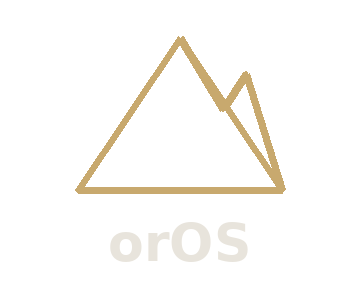
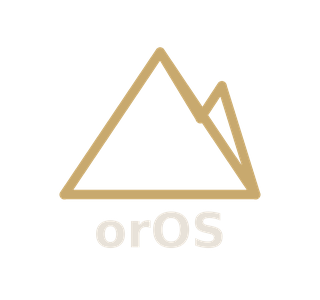
Graphical start: hidden boot menu, orOS boot screen, no login text
From the boot menu to orOS the screen showed text: GRUB's menu, kernel
and live-boot lines, and the tty1 autologin ("oros login", Debian's
message) between Plymouth quitting and cage painting.

- Boot menus hidden (GRUB timeout_style=hidden, isolinux menu hidden);
  orOS starts after 2 s, Esc (BIOS: any key) shows the menu with the
  fail-safe entries. GRUB background in Full HD.
- Kernel line: quiet splash loglevel=3 udev.log_level=3
  systemd.show_status=false vt.global_cursor_default=0.
- New Plymouth look (two-step): the orOS logo and three breathing gold
  dots on orOS's background, at start, restart and shut down; Debian's
  spinner is no longer copied in. Images from scripts/boot-art.py.
- orOS runs as oros-session.service on tty1, the way a display manager
  does (Conflicts plymouth-quit, PAM service oros-session for a logind
  session); Plymouth quits with --retain-splash and cage takes over, so
  no login prompt shows. tty2 keeps its autologin to the network screen.
- Boot test: a screenshot every 3 s in the first minute; fails when one
  shows the text console or none shows the boot screen's gold.

Claude-Session: https://claude.ai/code/session_01YL6AbizyjTpmhT5eAHAKpn

Changed region(s): [[0.1875, 0.12, 0.8125, 0.87]]

diff --git a/scripts/boot-art.py b/scripts/boot-art.py
@@ -1,0 +1,91 @@
+#!/usr/bin/env python3
+"""Draws the orOS boot screen images (Pillow). The PNGs are kept in the
+repository, so the build needs no Python; run this after changing the look.
+  python3 scripts/boot-art.py
+- assets/splash.png      GRUB (UEFI) and isolinux (BIOS) background, 640x480
+- assets/splash-hd.png   GRUB background on screens that take a larger mode
+- config/includes.chroot/usr/share/plymouth/themes/oros/watermark.png
+                         the logo on the Plymouth screen (start and shut down)
+- .../throbber-0001.png ... throbber-0036.png
+                         three gold dots that breathe one after the other
+The logo is orOS's icon.svg (koulaxizis/oros): the mountain in #c8a96e on
+#1b1a18, the same colour Chromium shows before orOS paints. No words other
+than the name: the language is not known yet while the computer starts.
+"""
+import math
+import os
+from PIL import Image, ImageDraw, ImageFont
+
+ROOT = os.path.dirname(os.path.dirname(os.path.abspath(__file__)))
+THEME = os.path.join(ROOT, "config/includes.chroot/usr/share/plymouth/themes/oros")
+BG = (0x1B, 0x1A, 0x18)
+GOLD = (0xC8, 0xA9, 0x6E)
+NAME = (0xE8, 0xE2, 0xD9)
+FONT = "/usr/share/fonts/truetype/dejavu/DejaVuSans-Bold.ttf"
+SS = 4  # supersampling for smooth edges
+
+# icon.svg: viewBox 512, stroke 20.
+OUTLINE = [(256, 104), (460, 408), (52, 408), (256, 104)]
+RIDGE = [(256, 104), (342, 246), (388, 176), (460, 408)]
+
+
+def mountain(draw, x, y, size, color):
+    """The icon's mountain in a size x size box at x, y (box of the 512 viewBox)."""
+    k = size / 512
+    w = max(1, round(20 * k))
+    for path in (OUTLINE, RIDGE):
+        pts = [(x + px * k, y + py * k) for px, py in path]
+        draw.line(pts, fill=color, width=w, joint="curve")
+        for px, py in pts:
+            r = w / 2
+            draw.ellipse([px - r, py - r, px + r, py + r], fill=color)
+
+
+def logo(width, height, size, name_px, bg=None):
+    """Mountain with the name below it, centred, at SS times the size."""
+    img = Image.new("RGBA", (width * SS, height * SS), bg + (255,) if bg else (0, 0, 0, 0))
+    d = ImageDraw.Draw(img)
+    font = ImageFont.truetype(FONT, name_px * SS)
+    # The mountain fills y 104..408 of its box; the name sits below it.
+    gap = name_px * 0.35
+    art_top, art_h = 104 / 512 * size, (408 - 104) / 512 * size
+    tb = d.textbbox((0, 0), "orOS", font=font)
+    text_h = (tb[3] - tb[1]) / SS
+    total = art_h + gap + text_h
+    top = (height - total) / 2
+    mountain(d, (width - size) / 2 * SS, (top - art_top) * SS, size * SS, GOLD)
+    tw = (tb[2] - tb[0]) / SS
+    d.text(((width - tw) / 2 * SS - tb[0], (top + art_h + gap) * SS - tb[1]), "orOS", font=font, fill=NAME)
+    return img.resize((width, height), Image.LANCZOS)
+
+
+def throbber(frames=36, w=104, h=24, r=6):
+    """Three dots; each grows and brightens in turn (one cycle = frames)."""
+    out = []
+    for i in range(frames):
+        img = Image.new("RGBA", (w * SS, h * SS), (0, 0, 0, 0))
+        d = ImageDraw.Draw(img)
+        for n in range(3):
+            phase = (i / frames - n / 6) * 2 * math.pi
+            t = (1 - math.cos(phase)) / 2  # 0..1
+            rr = (r * (0.7 + 0.3 * t)) * SS
+            a = int(255 * (0.25 + 0.75 * t))
+            cx, cy = (w / 2 + (n - 1) * 26) * SS, h / 2 * SS
+            d.ellipse([cx - rr, cy - rr, cx + rr, cy + rr], fill=GOLD + (a,))
+        out.append(img.resize((w, h), Image.LANCZOS))
+    return out
+
+
+def main():
+    logo(640, 480, 220, 44, BG).convert("RGB").save(os.path.join(ROOT, "assets/splash.png"), optimize=True)
+    logo(1920, 1080, 440, 88, BG).convert("RGB").save(os.path.join(ROOT, "assets/splash-hd.png"), optimize=True)
+    logo(320, 300, 240, 48).save(os.path.join(THEME, "watermark.png"), optimize=True)
+    for f in os.listdir(THEME):
+        if f.startswith("throbber-"):
+            os.remove(os.path.join(THEME, f))
+    for i, img in enumerate(throbber(), 1):
+        img.save(os.path.join(THEME, "throbber-%04d.png" % i), optimize=True)
+
+
+if __name__ == "__main__":
+    main()

diff --git a/README.md b/README.md
@@ -9,7 +9,7 @@ A bootable USB image that starts straight into [orOS](https://useoros.online). M
 - Debian 13 (trixie) live system, built with live-build, with the usual non-free firmware for Wi-Fi, graphics and sound.
 - [cage](https://github.com/cage-kiosk/cage), a kiosk Wayland compositor, showing only Debian's Chromium (no Google sign-in, sync, Safe Browsing or metrics; see `config/includes.chroot/etc/chromium/policies/managed/oros.json`).
 - The [orOS Portable](https://github.com/koulaxizis/oros-portable) launcher serving orOS from `http://localhost:47800/`, the same address as orOS Portable, so its Dropbox sign-in works here too.
-- UEFI with Secure Boot (Debian's signed shim and GRUB) and legacy BIOS boot, with an orOS boot screen.
+- UEFI with Secure Boot (Debian's signed shim and GRUB) and legacy BIOS boot, with a graphical start: no text from the menu to orOS (see **Boot screen** below).
 - A **System** button in orOS's top bar (the `system/extension` Chromium extension) for Wi-Fi, sound, battery, restart, shut down and installing orOS on the computer's disk. It talks to `oros-system` (`system/`), a small native messaging host that uses NetworkManager, PipeWire and systemd.
 
 ## Using it
@@ -22,6 +22,7 @@ The System button (Wi-Fi icon, top right) has Wi-Fi, sound, Bluetooth, printers,
 
 | Keys | |
 |---|---|
+| Esc while starting | the boot menu (fail-safe mode, older systems after an update) |
 | Ctrl+Alt+F2 | network setup in text mode (nmtui) |
 | Ctrl+Alt+F1 | back to orOS |
 | Alt+Shift | switch keyboard English / Greek |
@@ -31,6 +32,8 @@ The System button (Wi-Fi icon, top right) has Wi-Fi, sound, Bluetooth, printers,
 System › **Disks** lists Downloads, the computer's own disks (Windows, another Linux) and USB sticks (FAT, exFAT, NTFS, ext4, Btrfs, XFS; partitions of 1 GiB or more, never the disk orOS runs from). **Open** mounts one read-only under `/media/oros/<label>` and shows it in the Internet window; **Close** unmounts it. orOS's own files are in its Files app. From a terminal: `sudo /opt/oros/oros-system mount --dev /dev/sdX1 [--unmount]`.
 
 Saved Wi-Fi networks and their passwords are kept in `/home/.oros-network` (NetworkManager's keyfile folder, set in `/etc/NetworkManager/conf.d/oros.conf`), so they survive a restart; the installer copies them to the computer. System › **Problem report** writes `~/Downloads/orOS-report-<date>.txt` (hardware, disks, network state, this and the previous start's system log, and the logs below) and shows it in the Internet window, from where it can be attached to a message. The system log is kept across restarts in `/home/.oros-journal` (100 MB at most). Logs for when something goes wrong: `~/oros/data/session.log` (the kiosk), `~/oros/data/profile/chrome_debug.log` (the orOS window), `~/oros/data/web.log` (the Internet window) and `~/oros/data/oros-system.log` (the System button), `~/oros/data/install.log` and `update.log`.
+
+**Boot screen.** From the computer's own logo to orOS no text shows. The boot menu is hidden: orOS starts after 2 seconds, and Esc (BIOS: any key) in that time shows the menu. The kernel line (`auto/config`) asks for `quiet splash loglevel=3 udev.log_level=3 systemd.show_status=false vt.global_cursor_default=0`, and Plymouth shows the orOS logo with three breathing gold dots on orOS's dark background (`/usr/share/plymouth/themes/oros`, two-step), also when the computer restarts or shuts down. orOS itself runs as `oros-session.service` on tty1, started the way a display manager is (`Conflicts=plymouth-quit.service`, PAM service `oros-session` for a logind session): Plymouth leaves its last picture on the screen (`plymouth quit --retain-splash`) and cage takes over from there, so no login prompt shows in between. tty2 keeps its autologin to the network screen. The pictures come from `scripts/boot-art.py` (Pillow; the PNGs are in the repository). The CI boot test takes a screenshot every 3 seconds in the first minute and fails if one shows the text console or none shows the boot screen.
 
 **Session watchdog.** `oros-session` restarts orOS when its window shows no sign of life: the System extension pings `oros-system` every 10 s once the window has painted a frame, and the time lands in a file in RAM (`$XDG_RUNTIME_DIR/oros-alive-<uid>`). No ping within 60 s of a start, or none for 40 s later, stops the session and starts it again: the first time as it was, from the second time with the GPU off (`--disable-gpu`, also for the Internet window) for the rest of that boot. At most 3 restarts per boot. Each one is a `watchdog:` line in `session.log` and in the Problem report's first section. CI tests it with a fake compositor (`scripts/test-session-watchdog.sh`) and in QEMU with two starts that never ping (`WATCHDOG_TEST=2 scripts/test-boot.sh`); a normal boot test fails if the watchdog had to restart.
 
